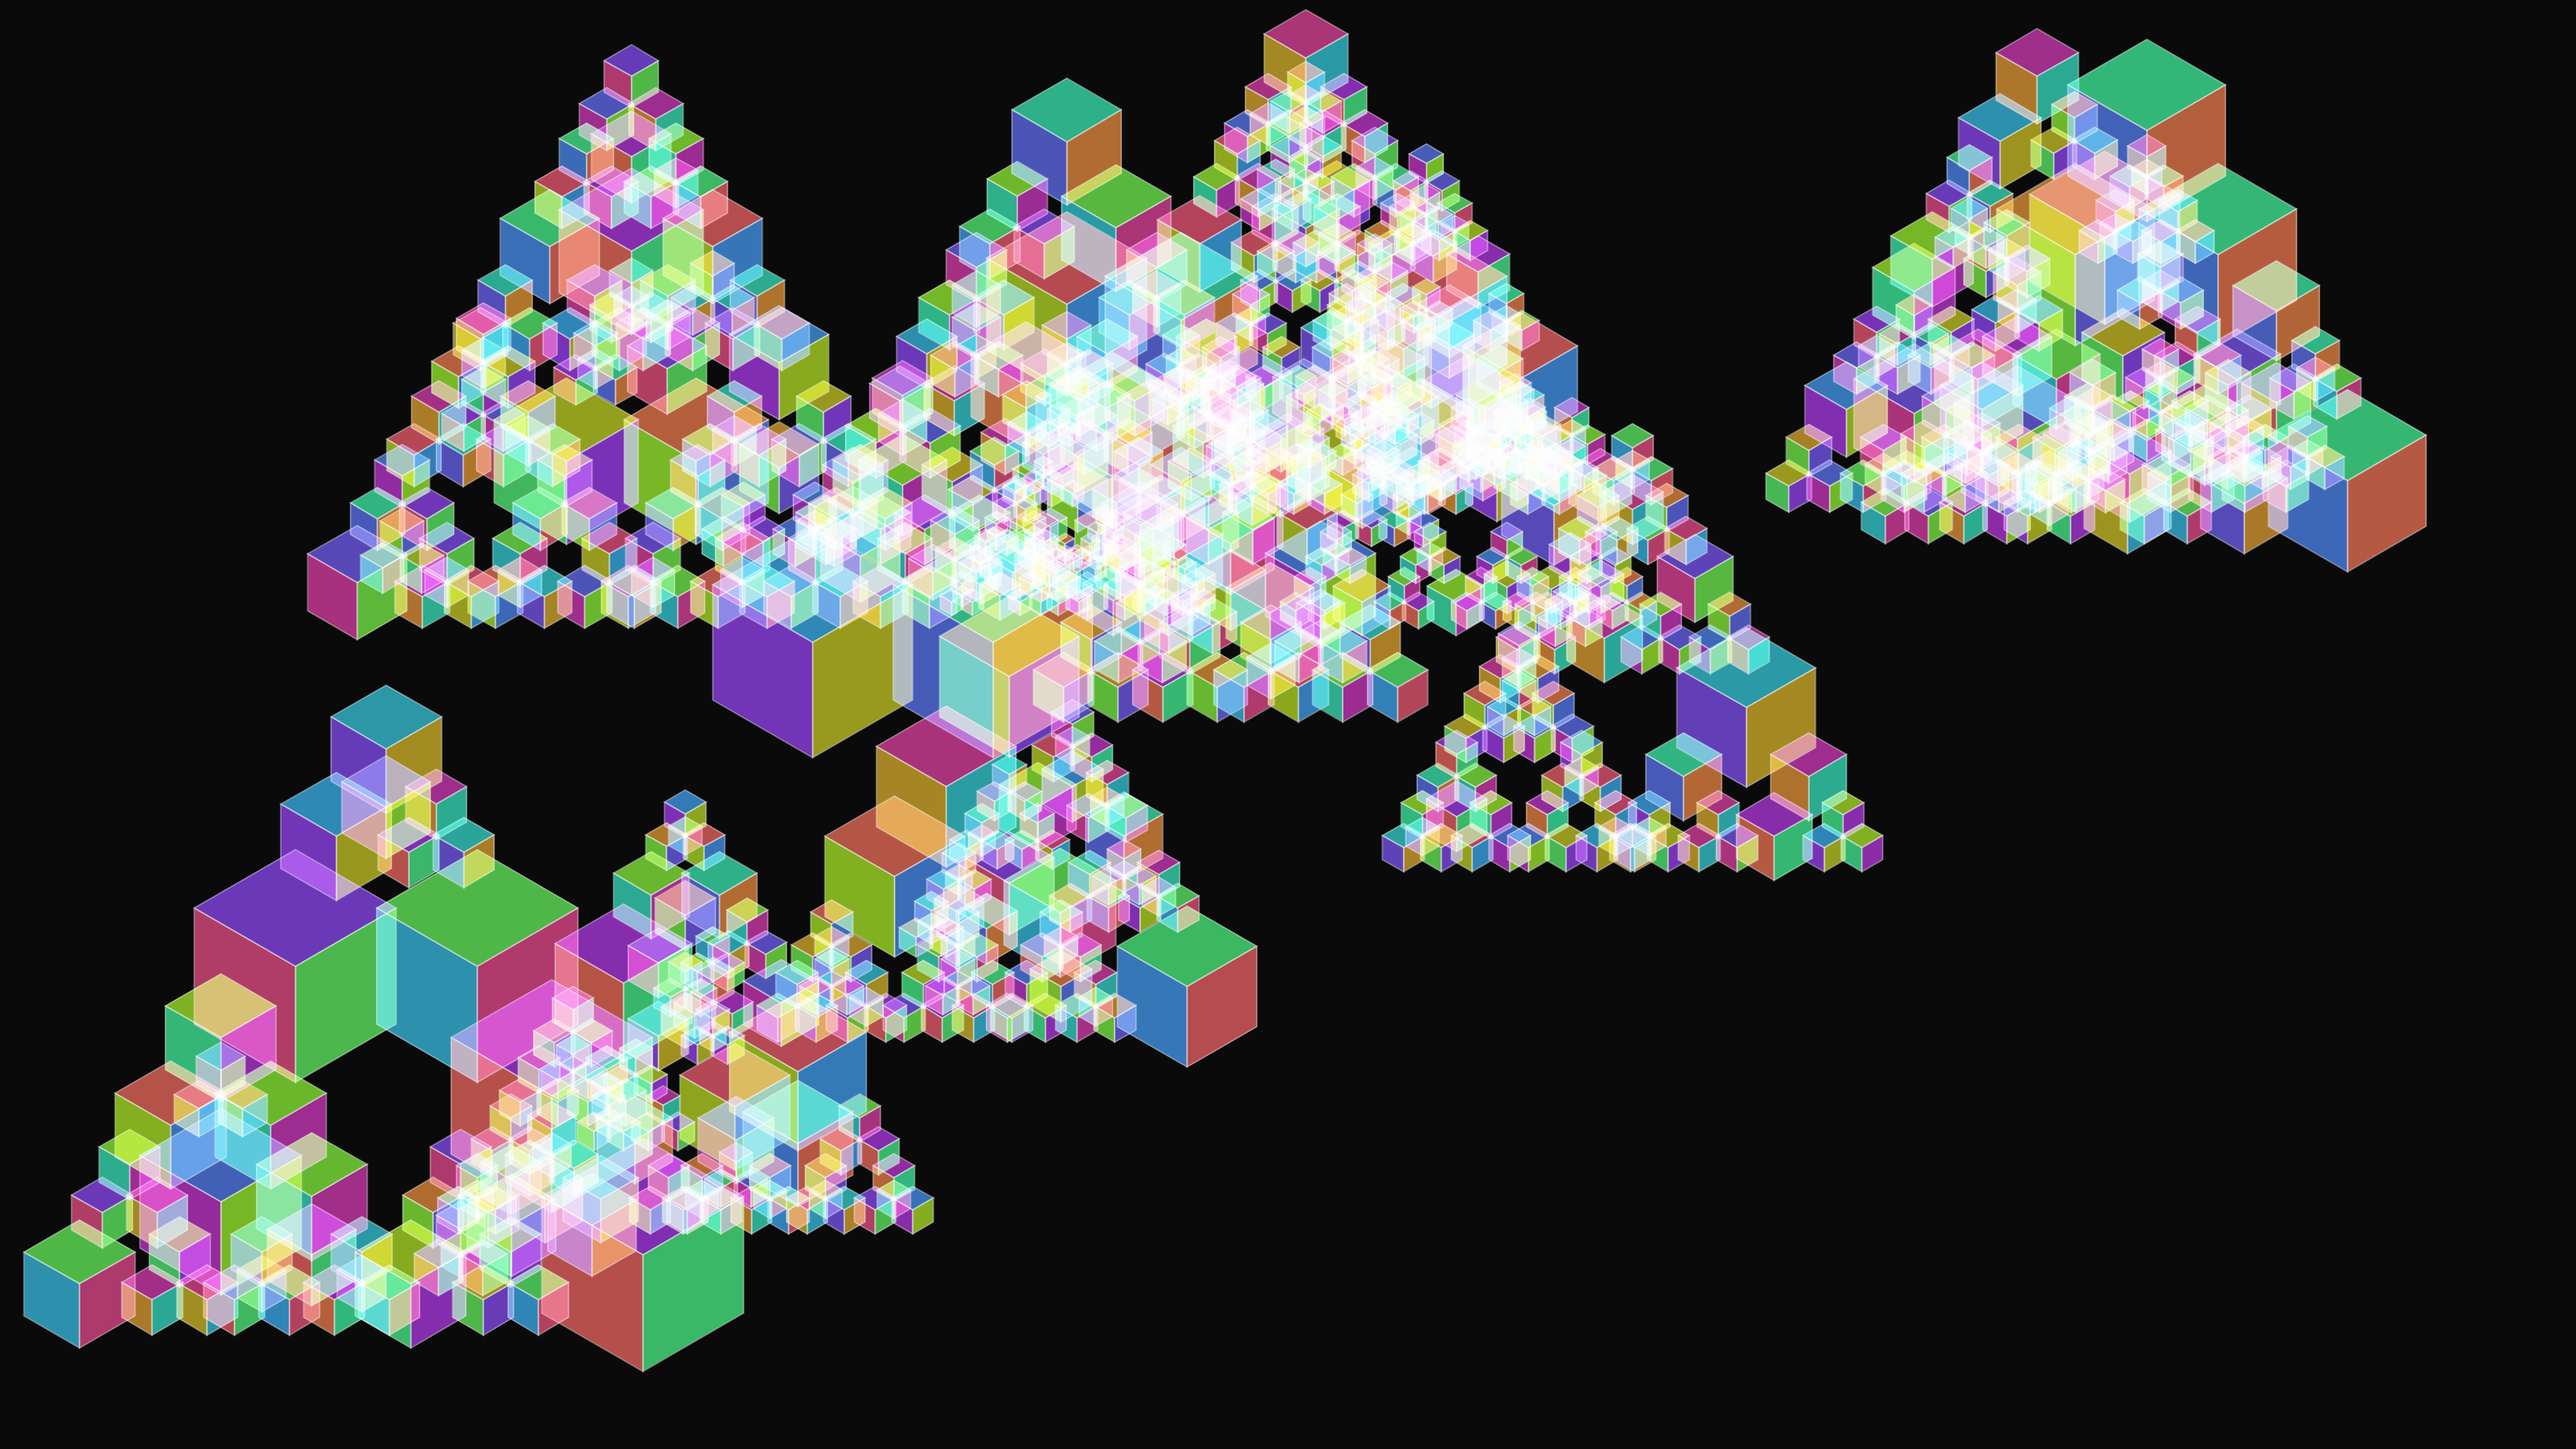
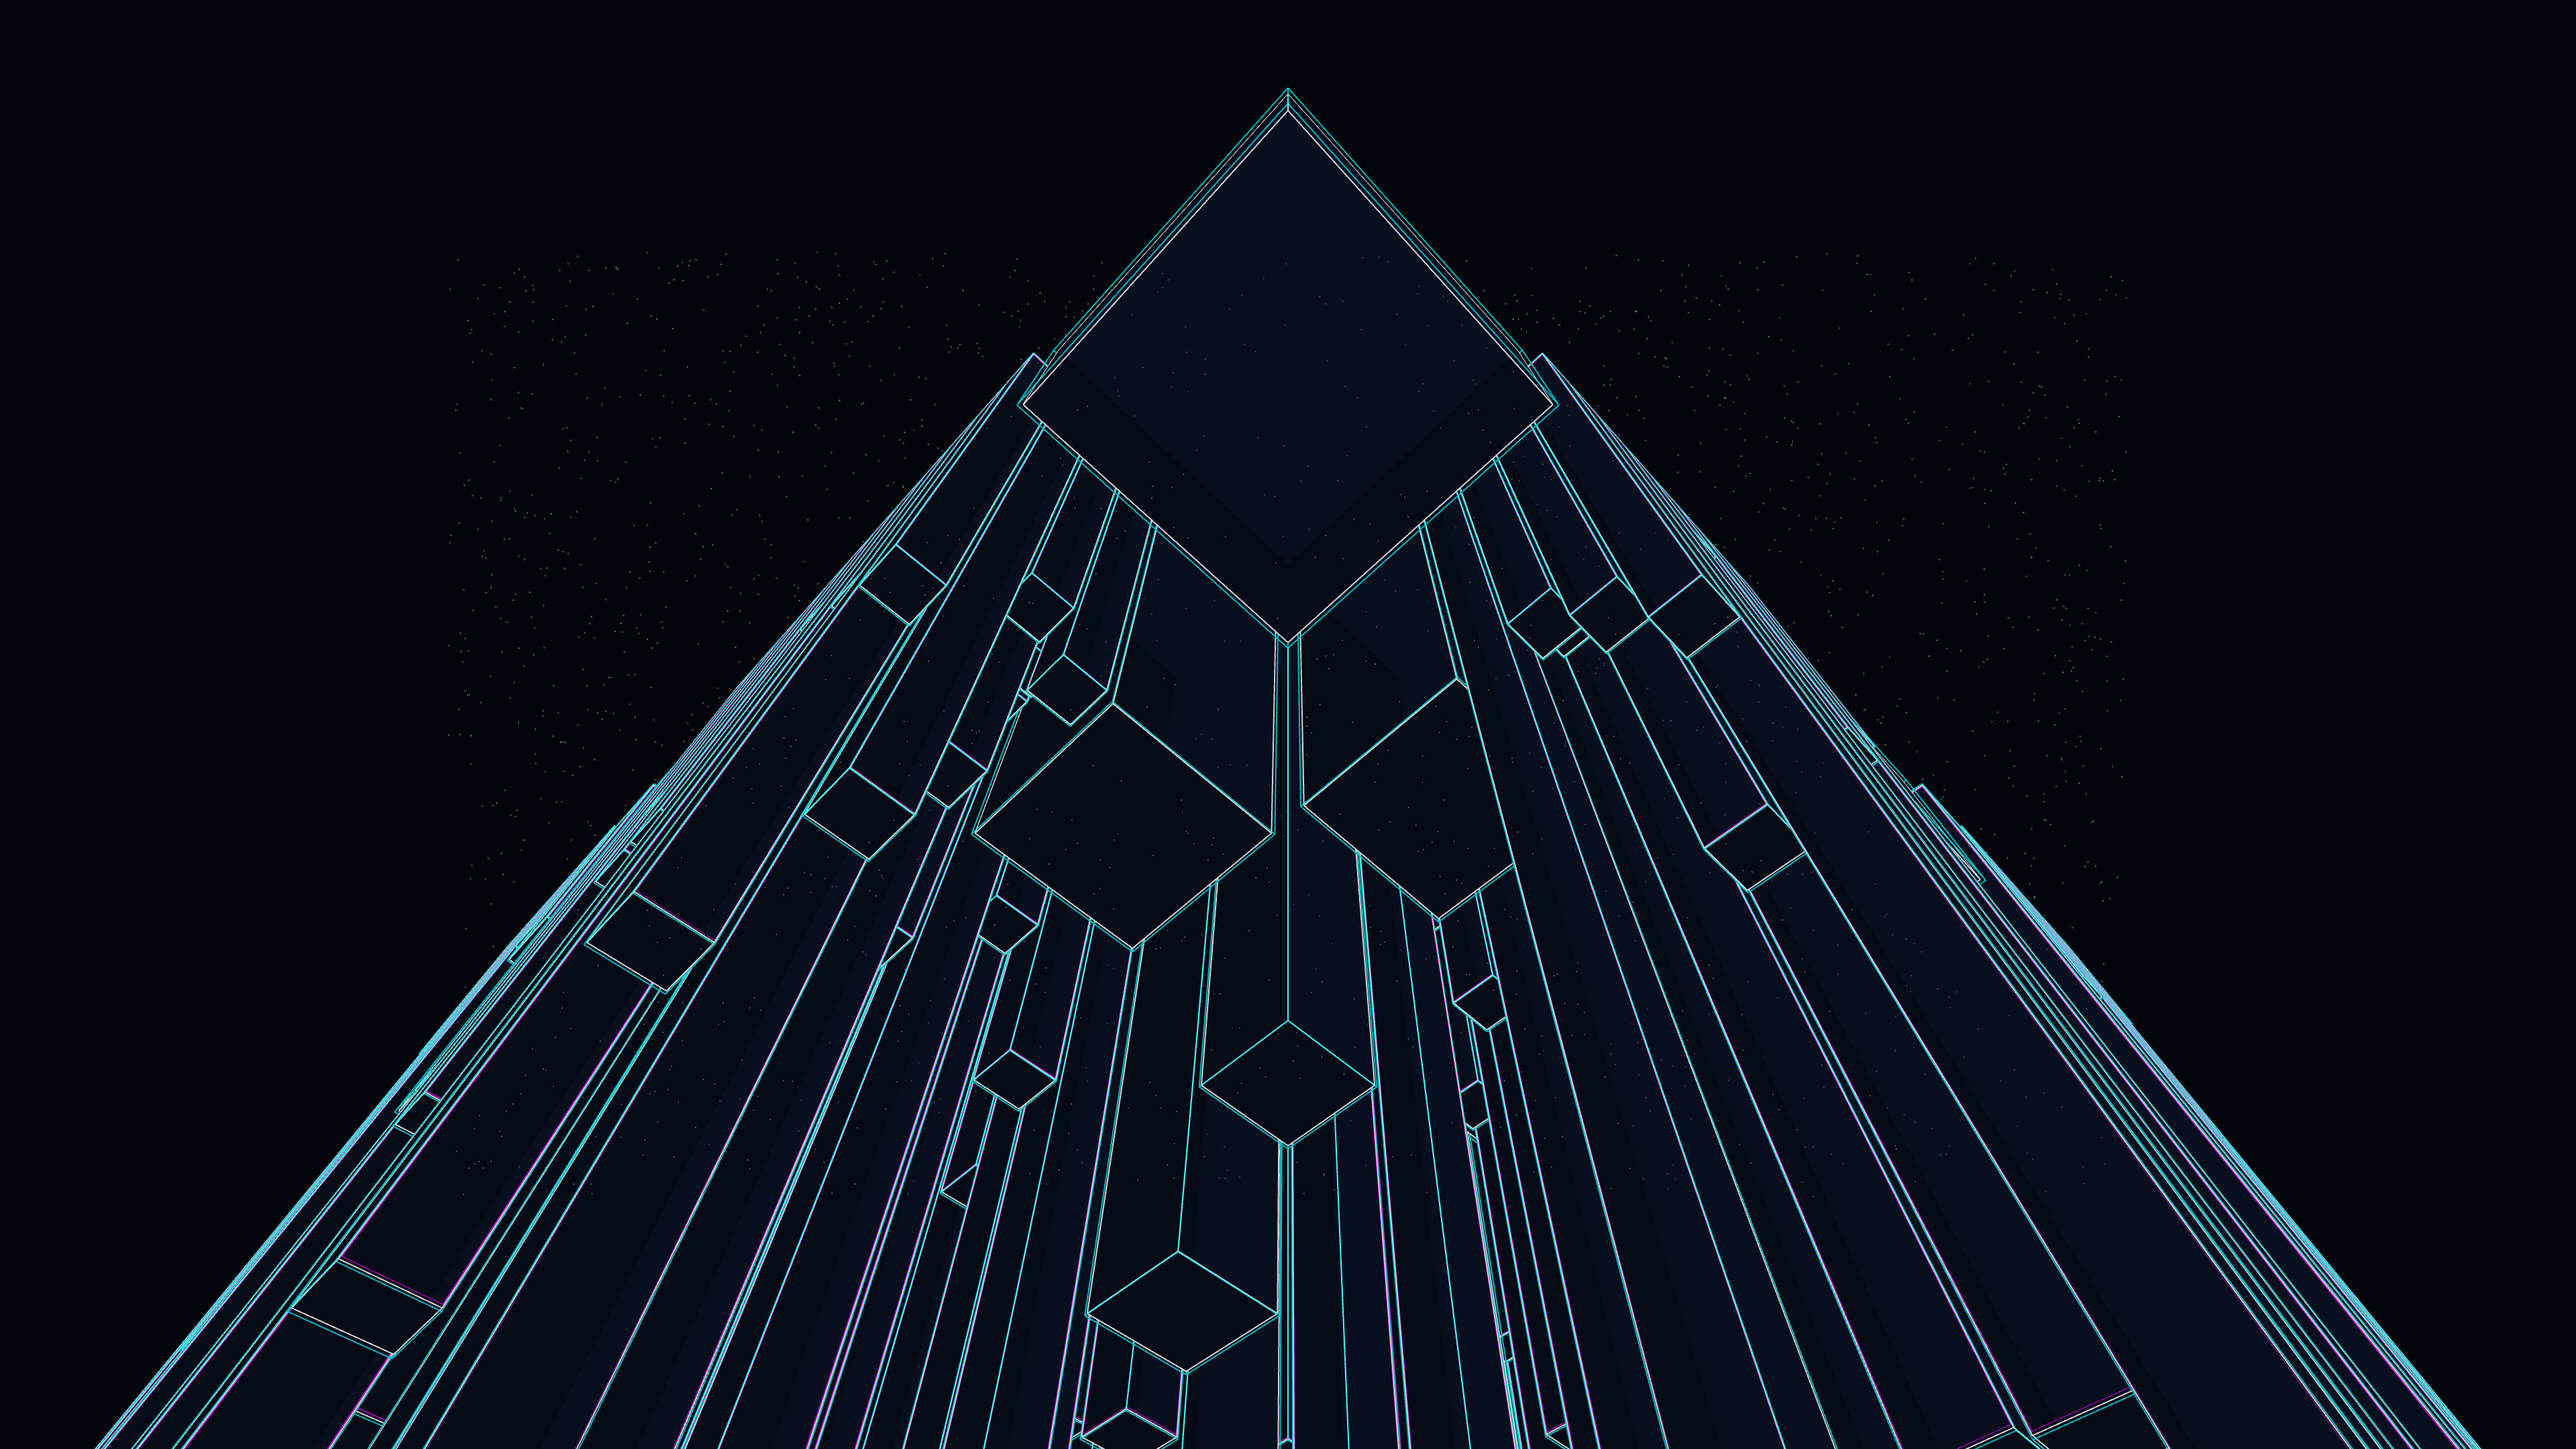
feat: add prismatic_architecture artwork

diff --git a/sketch/prismatic_architecture/main.py b/sketch/prismatic_architecture/main.py
@@ -1,9 +1,8 @@
 from pathlib import Path
 import sys
-import numpy as np
 import py5
+import numpy as np
 
-# Standard imports for the repo
 PROJECT_ROOT = Path(__file__).resolve().parents[2]
 if str(PROJECT_ROOT) not in sys.path:
     sys.path.append(str(PROJECT_ROOT))
@@ -13,96 +12,72 @@ from lib.preview import maybe_save_exit_on_frame, preview_filename
 from lib.sizes import get_sizes
 
 SKETCH_DIR = sketch_dir(__file__)
-PREVIEW_FRAME = 1
+PREVIEW_FRAME = 60
 PREVIEW_FILENAME = preview_filename(pattern=1)
 PREVIEW_SIZE, OUTPUT_SIZE, SIZE = get_sizes()
 
-
 def setup():
-    py5.size(*SIZE)
-    py5.background(10, 10, 10)  # Obsidian
-    py5.blend_mode(py5.SCREEN)
-    py5.no_loop()
+    py5.size(*SIZE, py5.P3D)
+    py5.smooth(8)
+    py5.background(2, 4, 12) # Deep obsidian void
 
-
-def draw_crystal_face(points, thickness):
-    # Simulate thin-film interference
-    # Thickness drives the phase shift for R, G, B
-    r = 127 + 127 * np.sin(thickness * 0.05 + 0)
-    g = 127 + 127 * np.sin(thickness * 0.05 + py5.TWO_PI / 3)
-    b = 127 + 127 * np.sin(thickness * 0.05 + 2 * py5.TWO_PI / 3)
-    
-    # Add a bit of gold/teal bias
-    r = r * 0.8 + 50 # Gold bias
-    g = g * 0.9 + 50 # Teal bias
-    b = b * 1.0 + 30
-    
-    py5.fill(r, g, b, 180)
-    py5.stroke(255, 255, 255, 100)
-    py5.stroke_weight(1.0)
-    
-    py5.begin_shape()
-    for p in points:
-        py5.vertex(p[0], p[1])
-    py5.end_shape(py5.CLOSE)
-
-
-def draw_isometric_cube(x, y, s, thickness):
-    # Isometric projection of a cube
-    h = s * np.sqrt(3) / 2
-    
-    # Points
-    p1 = (x, y - s)
-    p2 = (x + h, y - s/2)
-    p3 = (x + h, y + s/2)
-    p4 = (x, y + s)
-    p5 = (x - h, y + s/2)
-    p6 = (x - h, y - s/2)
-    p_mid = (x, y)
-    
-    # Top face
-    draw_crystal_face([p1, p2, p_mid, p6], thickness)
-    # Right face
-    draw_crystal_face([p2, p3, p4, p_mid], thickness + 50)
-    # Left face
-    draw_crystal_face([p6, p_mid, p4, p5], thickness + 100)
-
-
-def subdivide(x, y, s, depth, max_depth):
-    if depth >= max_depth or (depth > 1 and np.random.random() < 0.3):
-        thickness = (x + y) * 0.1 + np.random.uniform(0, 1000)
-        draw_isometric_cube(x, y, s, thickness)
-        return
-
-    # Subdivide into 4 quadrants (effectively)
-    new_s = s * 0.55
-    offset = s * 0.5
-    
-    # Jitter offsets for "crystal growth" look
-    subdivide(x, y - offset, new_s, depth + 1, max_depth)
-    subdivide(x + offset * 0.86, y + offset * 0.5, new_s, depth + 1, max_depth)
-    subdivide(x - offset * 0.86, y + offset * 0.5, new_s, depth + 1, max_depth)
-    
-    # Optional center crystal
-    if np.random.random() < 0.5:
-        subdivide(x, y, new_s * 0.8, depth + 1, max_depth)
-
+def draw_city(x, y, w, h, depth):
+    # Recursive Quadtree City
+    if depth > 0 and (py5.random(1) < 0.75 or depth > 3):
+        # Subdivide
+        hw, hh = w / 2, h / 2
+        draw_city(x, y, hw, hh, depth - 1)
+        draw_city(x + hw, y, hw, hh, depth - 1)
+        draw_city(x, y + hh, hw, hh, depth - 1)
+        draw_city(x + hw, y + hh, hw, hh, depth - 1)
+    else:
+        # Draw a "glass" building
+        height = py5.random(20, 200) * (5 - depth)
+        
+        py5.push_matrix()
+        py5.translate(x + w/2, y + h/2, height/2)
+        
+        # Spectral refraction fringes (additive lines)
+        # We draw multiple slightly offset boxes with different spectral colors
+        py5.stroke_weight(1.0)
+        
+        # Core structure
+        py5.fill(10, 20, 40, 100) # Dark transparent glass
+        py5.stroke(255, 255, 255, 150) # White edges
+        py5.box(w * 0.9, h * 0.9, height)
+        
+        # Spectral fringes (simulating refraction)
+        py5.no_fill()
+        py5.stroke(0, 255, 255, 120) # Cyan fringe
+        py5.box(w * 0.92, h * 0.92, height + 2)
+        py5.stroke(255, 0, 255, 120) # Magenta fringe
+        py5.box(w * 0.88, h * 0.88, height - 2)
+        
+        py5.pop_matrix()
 
 def draw():
-    w, h = SIZE
+    py5.background(2, 4, 12)
     
-    # Multiple "buildings" or clusters
-    num_clusters = 12
-    for _ in range(num_clusters):
-        cx = np.random.uniform(w * 0.1, w * 0.9)
-        cy = np.random.uniform(h * 0.2, h * 0.8)
-        base_size = np.random.uniform(100, 300)
-        subdivide(cx, cy, base_size, 0, 4)
+    # Dense Starfield
+    py5.stroke_weight(1)
+    np.random.seed(42) # Keep stars consistent for the still
+    for _ in range(3000):
+        sx, sy = np.random.rand(2)
+        py5.stroke(200, 220, 255, 150)
+        py5.point(sx * py5.width, sy * py5.height, -500) # Stars in background
 
-    # Final pass - no filter needed for now
+    # Setup Camera for Isometric-like view
+    py5.translate(py5.width/2, py5.height/2 + 200, -200)
+    py5.rotate_x(-np.pi / 6)
+    py5.rotate_z(np.pi / 4)
     
+    # Center the city
+    py5.translate(-500, -500, 0)
+    
+    # Draw city
+    py5.random_seed(1234)
+    draw_city(0, 0, 1000, 1000, 5)
+
     maybe_save_exit_on_frame(PREVIEW_FRAME, SKETCH_DIR, filename=PREVIEW_FILENAME)
 
-
-if __name__ == "__main__":
-    py5.run_sketch()
+py5.run_sketch()

diff --git a/sketch/prismatic_architecture/README.md b/sketch/prismatic_architecture/README.md
@@ -1,16 +1,10 @@
 # prismatic_architecture
 
-![Preview](preview_p1.png)
+- **Date**: 2026-05-05
+- **Theme**: Digital brutalism, spectral refraction, modern urbanism, beautiful night sky
+- **Technique**: 3D recursive quadtree subdivision, isometric camera projection, spectral "refraction" fringe rendering, transparent "glass" box geometry
+- **Description**: A vast, shimmering digital metropolis of glass-like buildings that appears to pulse with light; the architectural slabs of the 5-level recursive city feature spectral cyan and magenta fringes that simulate optical refraction against a deep star-dusted midnight void.
 
-## Metadata
-- **Date**: 2026-05-03
-- **Theme**: architecture, crystals, iridescence, geometry, modularity
-- **Technique**: recursive isometric cube subdivision, thin-film interference color mapping, additive SCREEN blending, stochastic growth
+## Preview
 
-## Concept
-A futuristic metropolis of shimmering crystalline structures; iridescent teal, rose, and gold faces refract light across a recursive geometric landscape, creating intense luminosity where structures converge against an obsidian sky.
-
-## Technical Details
-- **Renderer**: P2D
-- **Simulation**: recursive isometric cube subdivision
-- **Visuals**: thin-film interference color mapping, additive SCREEN blending, stochastic growth
+![preview_p1.png](preview_p1.png)

diff --git a/sketch/WORKS.md b/sketch/WORKS.md
@@ -3,6 +3,13 @@
 Read this file before creating any new artwork.
 Use it to avoid repeating themes, techniques, or algorithms from past works.
 
+## prismatic_architecture
+
+- **Date**: 2026-05-05
+- **Theme**: Digital brutalism, spectral refraction, modern urbanism, beautiful night sky
+- **Technique**: 3D recursive quadtree subdivision, isometric camera projection, spectral "refraction" fringe rendering, transparent "glass" box geometry
+- **Description**: A vast, shimmering digital metropolis of glass-like buildings that appears to pulse with light; the architectural slabs of the 5-level recursive city feature spectral cyan and magenta fringes that simulate optical refraction against a deep star-dusted midnight void.
+
 ## prismatic_vortices
 
 - **Date**: 2026-05-05

diff --git a/.agents/FEEDBACK.md b/.agents/FEEDBACK.md
@@ -11,6 +11,11 @@ The Artist reads this file before starting a new sketch to understand preference
 
 Add any notes on color, density, theme, or mood in the Comment field.
 
+## prismatic_architecture
+
+- **Rating**: 
+- **Comment**: 
+
 ## prismatic_vortices
 
 - **Rating**: 
